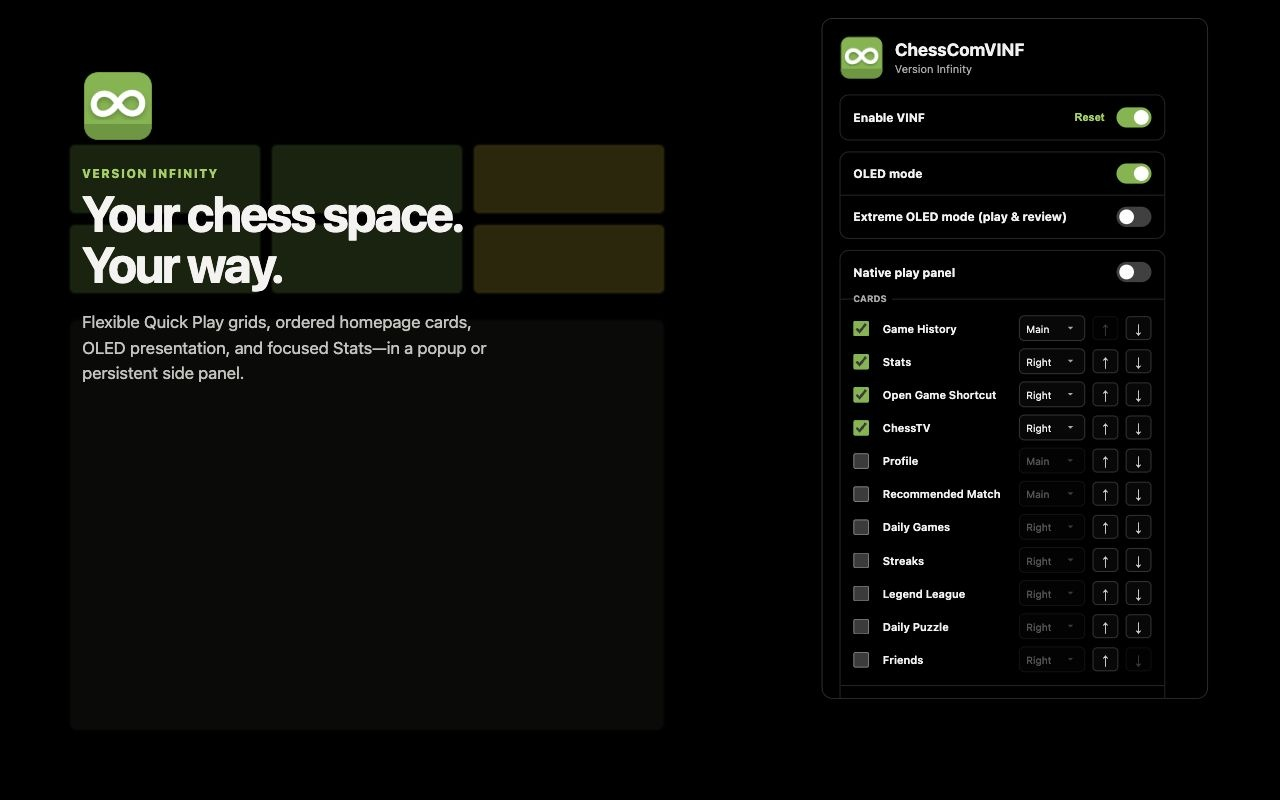
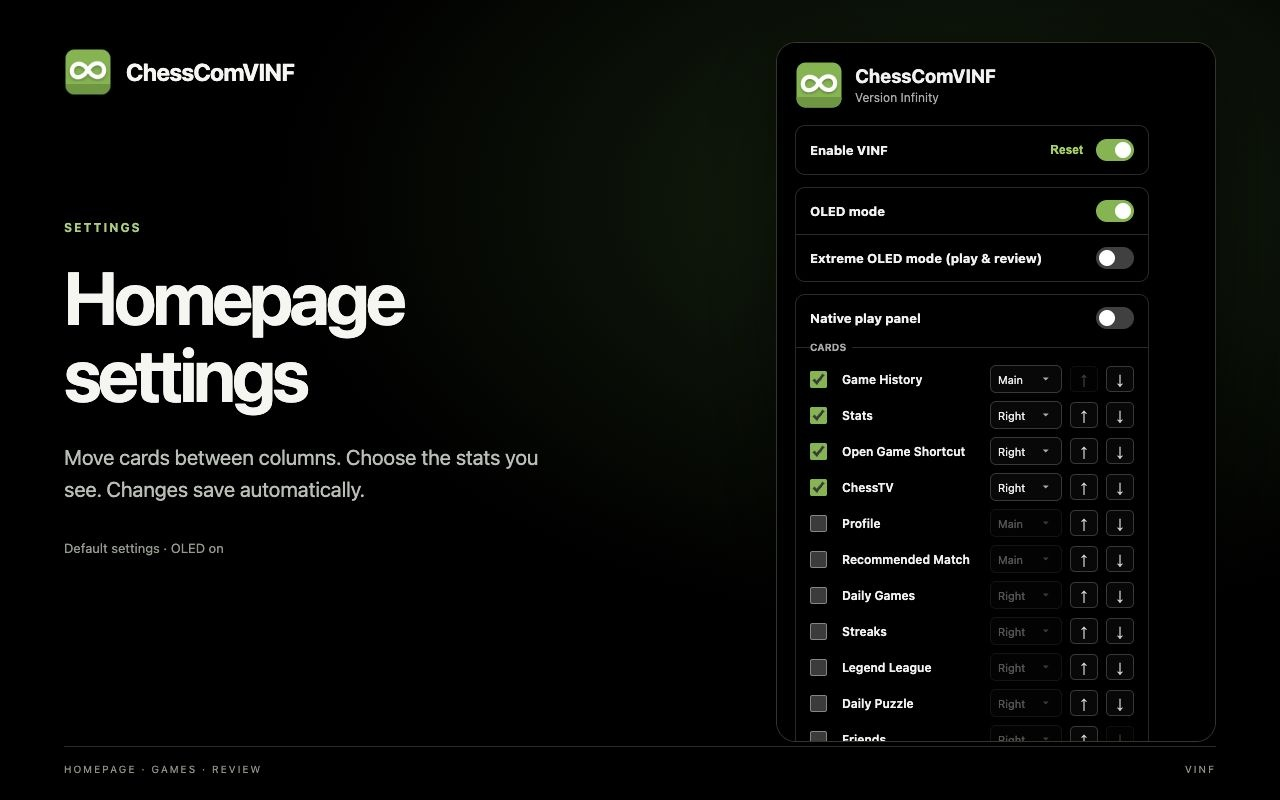
Complete Store artwork overhaul and correct default grid ordering

diff --git a/tests/visual/visual-harness.ts b/tests/visual/visual-harness.ts
@@ -37,6 +37,27 @@ const gameReviewController = new GameReviewLayoutController();
 
 const searchParams = new URL(window.location.href).searchParams;
 
+// Public Store captures use a short, legal fictional opening rather than stress-test rows.
+if (searchParams.has("store-capture") && window.location.pathname === "/phone-game") {
+  const moves = [["e4", "e5"], ["Nf3", "Nc6"], ["Bc4", "Bc5"]];
+  document.querySelectorAll(".main-line-row").forEach((row, i) => {
+    if (i >= moves.length) { row.remove(); return; }
+    row.querySelector(".white-move")!.textContent = moves[i][0];
+    row.querySelector(".black-move")!.textContent = moves[i][1];
+  });
+  for (const [from, to] of [["52","54"],["57","55"],["71","63"],["28","36"],["61","34"],["68","35"]]) {
+    const piece = document.querySelector<HTMLElement>(`.piece.square-${from}`);
+    if (piece) {
+      piece.classList.replace(`square-${from}`, `square-${to}`);
+      piece.style.left = `${(Number(to[0])-1)*12.5}%`;
+      piece.style.top = `${(8-Number(to[1]))*12.5}%`;
+    }
+  }
+  document.querySelectorAll("wc-captured-pieces").forEach(node => node.replaceChildren());
+  document.querySelector(".fixture-tail")?.remove();
+}
+
+
 if (searchParams.has("active-game")) {
   const activeGameLink = document.createElement("a");
   activeGameLink.href = "https://www.chess.com/game/live/123456";
@@ -271,7 +292,7 @@ if (window.location.pathname === "/game-review-mobile") {
 
 if (window.location.pathname === "/extreme-oled") {
   const extreme = new ExtremeOledController();
-  const settings = { ...DEFAULT_SETTINGS, extremeOled: searchParams.has("extreme"), turnDotSize: searchParams.has("large-dot") ? 24 : searchParams.has("small-dot") ? 4 : DEFAULT_SETTINGS.turnDotSize };
+  const settings = { ...DEFAULT_SETTINGS, extremeOled: searchParams.has("extreme"), turnDotSize: searchParams.has("large-dot") ? 24 : searchParams.has("small-dot") ? 4 : searchParams.has("store-capture") && window.innerWidth < 600 ? 12 : DEFAULT_SETTINGS.turnDotSize };
   const apply = () => extreme.reconcile(document,
     { protocol: "https:", hostname: "www.chess.com", pathname: "/game/123456" }, settings, searchParams.has("desktop"), searchParams.has("desktop"));
   if (searchParams.has("last-move")) {
@@ -379,7 +400,7 @@ if (["/phone-game", "/game-review-mobile"].includes(window.location.pathname)) {
   const route = { protocol: "https:", hostname: "www.chess.com",
     pathname: game ? "/game/123456" : searchParams.has("engine") ? "/analysis/game/live/123456/analysis" : "/analysis/game/live/123456/review" };
   const settings = { ...DEFAULT_SETTINGS, pokemonMode: searchParams.has("pokemon"), enabled: !searchParams.has("native"),
-    extremeOled: searchParams.has("extreme"), turnDotSize: searchParams.has("large-dot") ? 24 : searchParams.has("small-dot") ? 4 : DEFAULT_SETTINGS.turnDotSize };
+    extremeOled: searchParams.has("extreme"), turnDotSize: searchParams.has("large-dot") ? 24 : searchParams.has("small-dot") ? 4 : searchParams.has("store-capture") && window.innerWidth < 600 ? 12 : DEFAULT_SETTINGS.turnDotSize };
   const apply = () => {
     document.documentElement.toggleAttribute("data-chesscom-vinf-oled", settings.extremeOled || searchParams.has("oled"));
     if (settings.extremeOled || searchParams.has("oled")) document.documentElement.setAttribute("data-chesscom-vinf-oled", "true");

diff --git a/store-listing/source/gallery.css b/store-listing/source/gallery.css
@@ -1,0 +1,1 @@
+:root{color-scheme:dark;font-family:Inter,-apple-system,BlinkMacSystemFont,"Segoe UI",sans-serif;color:#f5f5f2;background:#000}*{box-sizing:border-box}body{margin:0}#scene{position:relative;width:1280px;height:800px;overflow:hidden;background:radial-gradient(ellipse at 75% 25%,#15230e 0,transparent 50%),#000}.brand{position:absolute;left:64px;top:48px;display:flex;align-items:center;gap:14px;font-size:24px;font-weight:700;letter-spacing:-.6px}.brand img{width:48px;height:48px}.copy{position:absolute;left:64px;top:220px;width:555px}.eyebrow{color:#a7ce7e;font-size:12px;font-weight:700;letter-spacing:2px;margin:0 0 24px}h1{font-size:74px;line-height:1.04;letter-spacing:-3.5px;white-space:pre-line;margin:0 0 28px;font-weight:650}.description{color:#b8bdb5;font-size:21px;line-height:1.55;max-width:480px;margin:0}.note{color:#92998c;font-size:13px;line-height:1.6;max-width:410px;margin-top:32px}.preview{position:absolute;right:64px;top:42px;width:440px;height:700px;border:1px solid #30392b;border-radius:20px;overflow:hidden;background:#000;box-shadow:0 20px 80px #0009}.preview iframe{display:block;border:0;width:440px;height:700px}footer{position:absolute;left:64px;right:64px;bottom:25px;border-top:1px solid #242a20;padding-top:16px;display:flex;justify-content:space-between;font-size:10px;letter-spacing:2px;color:#899181}body[data-kind=phone] .preview{width:351px;height:700px;right:102px}body[data-kind=phone] iframe{width:390px;height:778px;transform:scale(.9);transform-origin:top left}body[data-kind=small] #scene{width:440px;height:280px;background:radial-gradient(ellipse at 100% 0,#203615,transparent 70%),#000}body[data-kind=small] .brand{left:26px;top:24px;font-size:19px;gap:10px}body[data-kind=small] .brand img{width:34px;height:34px}body[data-kind=small] .copy{left:26px;top:88px;width:388px}body[data-kind=small] h1{font-size:46px;letter-spacing:-2px;line-height:1.02;margin-bottom:25px}body[data-kind=small] .description{font-size:10px;font-weight:650;letter-spacing:2px;color:#abc88e}body[data-kind=small] .eyebrow,body[data-kind=small] .note,body[data-kind=small] footer{display:none}body[data-kind=marquee] #scene{width:1400px;height:560px}body[data-kind=marquee] .brand{left:54px;top:38px;font-size:23px}body[data-kind=marquee] .brand img{width:44px;height:44px}body[data-kind=marquee] .copy{left:54px;top:144px;width:480px}body[data-kind=marquee] h1{font-size:62px;letter-spacing:-3px;margin-bottom:22px}body[data-kind=marquee] .description{font-size:17px;width:390px}body[data-kind=marquee] .note{font-size:11px;margin-top:22px}body[data-kind=marquee] .eyebrow{margin-bottom:18px;font-size:10px}body[data-kind=marquee] .preview{width:794px;height:496px;right:-24px;top:38px;transform:rotate(-2deg);border-radius:14px}body[data-kind=marquee] iframe{width:1280px;height:800px;transform:scale(.62);transform-origin:top left}body[data-kind=marquee] footer{display:none}

diff --git a/store-listing/source/gallery.html b/store-listing/source/gallery.html
@@ -1,0 +1,21 @@
+<!doctype html><html lang="en"><head><meta charset="utf-8"><meta name="viewport" content="width=device-width,initial-scale=1"><title>VINF Store gallery</title><link rel="stylesheet" href="/gallery.css"></head><body>
+<main id="scene">
+<header class="brand"><img src="/icons/icon-128.png" alt=""><span>ChessComVINF</span></header>
+<div class="copy"><p class="eyebrow" id="eyebrow"></p><h1 id="headline"></h1><p class="description" id="description"></p><p class="note" id="note"></p></div>
+<div class="preview"><iframe id="preview" title="VINF default interface"></iframe></div>
+<footer><span>HOMEPAGE · GAMES · REVIEW</span><span>VINF</span></footer>
+</main>
+<script>
+const views={
+ presets:{eyebrow:'QUICK PLAY',headline:'Quick Play\npresets',description:'Eight shortcuts on desktop and tablet. Three on phone. Choose a time control for each shortcut.',note:'Default desktop settings shown.',src:'/popup?store-capture=1&section=presets',kind:'settings'},
+ settings:{eyebrow:'SETTINGS',headline:'Homepage\nsettings',description:'Move cards between columns. Choose the stats you see. Changes save automatically.',note:'Default settings · OLED on',src:'/popup?store-capture=1',kind:'settings'},
+ play:{eyebrow:'LIVE GAMES',headline:'Live game\nlayout',description:'A clean black canvas, clear clocks and familiar controls. Adjust the turn indicator to suit you.',note:'Phone layout shown. Android: separate Firefox + Violentmonkey installation.',src:'/phone-game?oled=1&store-capture=1',kind:'phone'},
+ review:{eyebrow:'GAME REVIEW',headline:'Game\nReview',description:'Coach feedback, the evaluation graph and move controls, arranged for a smaller screen.',note:'Phone layout shown. Android: separate Firefox + Violentmonkey installation.',src:'/game-review-mobile?oled=1&store-capture=1',kind:'phone'},
+ small:{eyebrow:'',headline:'Customize\nChess.com',description:'QUICK PLAY · OLED · REVIEW',note:'',src:'',kind:'small'},
+ marquee:{eyebrow:'CHESS.COM EXTENSION',headline:'Chess.com\ncustomization',description:'Quick Play, a focused homepage and OLED game review. Available on desktop and Android.',note:'Desktop · Android via Firefox + Violentmonkey',src:'/store-showcase?view=home6',kind:'marquee'}
+};
+const v=new URL(location.href).searchParams.get('view')||'settings';const c=views[v]||views.settings;
+document.body.dataset.kind=c.kind;document.body.dataset.view=v;
+for(const k of ['eyebrow','headline','description','note'])document.getElementById(k).textContent=c[k];
+if(c.src)document.getElementById('preview').src=c.src;else document.querySelector('.preview').remove();
+</script></body></html>

diff --git a/tests/settings.test.ts b/tests/settings.test.ts
@@ -18,7 +18,7 @@ describe("settings", () => {
     expect(desktop).toMatchObject({oledMode:true, extremeOled:false, pokemonMode:false,
       turnDotSize:20,turnPulseDiameter:48,turnAnimationDuration:333,
       pokemonPieces:{p:201,n:12,b:169,r:208,q:38,k:53},
-      quickPlayPresetCount:8,timeControlIds:["10-0", "15-10", "3-0", "5-5", "10-5", "30-0", "3-2", "1-1"],
+      quickPlayPresetCount:8,timeControlIds:["10-0", "10-5", "15-10", "30-0", "3-0", "3-2", "5-5", "1-1"],
       dailyGamesPlacement:"hidden",recommendedMatchPlacement:"hidden",gameHistoryPlacement:"main"});
     expect(phone).toEqual({...desktop,quickPlayPresetCount:3,timeControlIds:["3-2","10-0","15-10"],turnDotSize:12,homepageSidebarVisible:["stats","open-game"]});
     expect(normalizeSettings(undefined,true)).toEqual(phone);

diff --git a/src/shared/settings.ts b/src/shared/settings.ts
@@ -60,7 +60,7 @@ export const DEFAULT_SETTINGS: ExtensionSettings = {
   homepageSidebarOrder: [...DEFAULT_HOMEPAGE_SIDEBAR_ORDER],
   homepageSidebarVisible: [...DEFAULT_HOMEPAGE_SIDEBAR_VISIBLE],
   quickPlayPresetCount: 8,
-  timeControlIds: ["10-0", "15-10", "3-0", "5-5", "10-5", "30-0", "3-2", "1-1"],
+  timeControlIds: ["10-0", "10-5", "15-10", "30-0", "3-0", "3-2", "5-5", "1-1"],
   statsSummaryOrder: [...DEFAULT_STATS_SUMMARY_ORDER],
   statsSummaryVisible: [...DEFAULT_STATS_SUMMARY_VISIBLE],
   statsRatingOrder: [...DEFAULT_STATS_RATING_ORDER],

diff --git a/src/shared/time-controls.ts b/src/shared/time-controls.ts
@@ -152,7 +152,7 @@ export const DEFAULT_TIME_CONTROL_IDS: readonly TimeControlId[] = [
   "5-3"
 ] as const;
 
-export const DEFAULT_EIGHT_TIME_CONTROL_IDS: readonly TimeControlId[] = ["10-0", "15-10", "3-0", "5-5", "10-5", "30-0", "3-2", "1-1"] as const;
+export const DEFAULT_EIGHT_TIME_CONTROL_IDS: readonly TimeControlId[] = ["10-0", "10-5", "15-10", "30-0", "3-0", "3-2", "5-5", "1-1"] as const;
 
 export const QUICK_PLAY_EXPANSION_FALLBACK_IDS: readonly TimeControlId[] = [
   "10-0",

diff --git a/docs/HANDOFF.md b/docs/HANDOFF.md
@@ -3,7 +3,8 @@
 This document is the durable project memory for future coding agents.
 
 Last updated: 2026-10-06.
-Current source version: 2.24.1.
+Current source version: 2.24.2.
+2.24.2: complete Store artwork correction: five images (home,presets,settings,phone play,phone review), both promo tiles replaced, plain descriptive headings, no version badges. gallery.html/css is the authoritative composed-asset source. Browser screenshot fullPage sometimes dropped text; explicit clip captures verified. Small440x280,marquee1400x560,screens1280x800; no EXIF. Store-capture query only changes local fixtures (legal opening,12px phone dot, version omission, preset scroll); production unaffected. Corrected default8 storage to column-major [10,10+5,15+10,30,3,3+2,5+5,1+1]; actual homepage DOM geometry verified top10/15+10/3/5+5, bottom10+5/30/3+2/1+1. Saved settings unchanged. Removed README defaults paragraph per user.238 tests/typecheck/builds passed. Store submission remains manual due browser policy.
 2.24.1 public release: explicit user authorization on2026-10-06 supersedes local-only restriction for this GitHub/Store update. Desktop/tablet presets8:10,15+10,3,5+5 / 10+5,30,3+2,1+1; phone3 unchanged. README simplified; Android download intended as GitHub release asset. Store screenshot harness embeds actual popup with only version badge hidden; homepage synthetic/default8 and fictional accounts. Retired obsolete screenshot02. Privacy copy now includes same-origin presence and tab-local gameID/clock maxima/display expiry. Audit current+reachable1266blobs found no secret-pattern blockers; only media/existing-remote review findings. Metadata checked (no personal EXIF); sprites only transparency. Commit email GitHub noreply; raw captures ignored.238 tests/typecheck/both builds pass (first full run userscript timeout, focused and repeat full pass). GitHub main pushed and public release v2.24.1 created at5bd9cb78dc8642c75b13a73970126ef04c827478, both ZIP/userscript assets verified against SHA256. User opened developer dashboard, but binding the Store listing returns browser-policy error “The extensions gallery cannot be scripted.” Do not bypass via another automation surface. Store upload/submission NOT completed; user must upload manually using store-listing/SUBMISSION.md and UPDATE_TLDR.md. Public assets and package checked.
 2.24.0: new-install defaults match the user-approved live settings profile. OLED on, Extreme/Pokémon/native play off; dot20px, pulse48px,333ms. Quick Play3:3+2,10min,15+10. Card order History,Stats,Open Game,ChessTV,Profile,Recommended,Daily,Streaks,League,Puzzle,Friends; History Main,Stats/OpenGame/TV Right visible; others hidden with remembered columns preserved. Stats Games only; Rapid/Blitz retracted. Default team p201/n12/b169/r208/q38/k53, pieces enabled, mode off. getDefaultSettings(phone) supplies dot12 and hidesTV under600px in content/userscript loading and Android reset; saved explicit values win. Desktop popup remains desktop defaults even though its own panel is narrow. Removed redundant Pokémon heading. Phone Go home now fit-content,min120px,centered with existing bottom location/touch height.238 tests/typecheck/both builds pass. IAB390px Review fixture measured Home124.25px centered at132.875px; popup preview confirms new defaults and v2.24.0. Preview console still reports the previously observed fixture MutationObserver/non-Node error; no new error type observed. Real Android verification remains user-controlled. Legacy regression fixtures explicitly use tests/legacy-settings.ts so old-profile behavior remains covered.
 2.23.0: all11 homepage cards now have Main/Right selectors in popup/sidepanel/Android. New homepageCardColumns partial map covers former sidebar-only stats/chess-tv/streaks/legend-league/daily-puzzle/friends; absent=sidebar, visibility remains in homepageSidebarVisible, reset clears map. Existing five placement fields preserved for backward compatibility. Layout partitions marked native cards after badge-host extraction; locator first reuses managed module markers so Main cards remain discoverable. Main widths100%; hidden cards excluded from visible ordering to avoid mutation churn. Tests cover both directions, repeated reconcile, hidden cards, native parent restoration and both editors autosaving;237 tests pass. Local IAB fixture shows Main728px/Right300px with no card overflow,11 selectors. Actual account/Firefox device checks pending.

diff --git a/store-listing/SUBMISSION.md b/store-listing/SUBMISSION.md
@@ -1,13 +1,13 @@
-# Chrome Web Store update — ChessComVINF 2.24.1
+# Chrome Web Store update — ChessComVINF 2.24.2
 
 For the dashboard checklist, use `UPDATE_TLDR.md`. Verify the currently published version in the dashboard before submission.
 
 ## Package
 
-- Upload: `../release/chesscom-vinf-2.24.1.zip`
-- Version: `2.24.1`
+- Upload: `../release/chesscom-vinf-2.24.2.zip`
+- Version: `2.24.2`
 - SHA-256:
[2 lines of base64/hex data omitted]
 
 The package contains only the Manifest V3 extension. The Android userscript,
 private fixtures, source maps, Store assets, and release documentation are not
@@ -41,12 +41,22 @@ ChessComVINF is an independent, unofficial extension and is not affiliated with 
 
 ### Graphic assets
 
-Replace the screenshot gallery with:
+Replace the screenshot gallery with all five images, in this order:
 
-- `assets/screenshot-01-focused-home.jpg` — eight default desktop/tablet presets, fictional account data.
-- `assets/screenshot-03-settings.jpg` — actual default settings UI, version badge omitted only in the capture harness.
+1. `assets/screenshot-01-focused-home.jpg` — default desktop homepage.
+2. `assets/screenshot-02-quick-play.jpg` — default eight-preset grid and stats settings.
+3. `assets/screenshot-03-settings.jpg` — default homepage and OLED settings.
+4. `assets/screenshot-04-live-game.jpg` — phone gameplay layout.
+5. `assets/screenshot-05-game-review.jpg` — phone Game Review layout.
 
-Both are 1280×800 and contain no personal metadata. Remove the obsolete eight-preset screenshot from the previous gallery. Keep the icon and promotional tiles.
+All screenshots are 1280×800, use fictional data/default settings and omit version badges. Phone images explicitly describe the separate Android Firefox + Violentmonkey installation.
+
+Replace both promotional tiles:
+
+- `assets/small-promo-440x280.jpg` (440×280)
+- `assets/marquee-promo-1400x560.jpg` (1400×560)
+
+Keep `assets/store-icon-128.png`. Public images have no personal EXIF metadata. The new gallery and promo sources are `source/gallery.html` and `source/gallery.css`; the homepage scene remains in `source/showcase.html`.
 
 ## Unchanged dashboard fields
 

diff --git a/store-listing/UPDATE_TLDR.md b/store-listing/UPDATE_TLDR.md
@@ -1,9 +1,11 @@
-# Chrome Web Store update — 2.24.1
+# Chrome Web Store update — 2.24.2
 
-- Upload `release/chesscom-vinf-2.24.1.zip`.
-- Replace the description and privacy explanations with `SUBMISSION.md`.
-- Replace screenshots with the default-profile, version-free assets listed there.
-- Mention the separate Firefox + Violentmonkey installation for Android phones and tablets.
-- Submit for review; approval timing is controlled by Google.
+1. Upload `release/chesscom-vinf-2.24.2.zip`.
+2. Replace the description and privacy explanations with `SUBMISSION.md`.
+3. Replace the screenshot gallery with all five numbered screenshots, in order.
+4. Replace both small and marquee promotional tiles. Keep the extension icon.
+5. Submit for review; Google controls approval timing.
 
-Status: GitHub release 2.24.1 is published. Chrome Web Store upload and submission are pending manual upload (browser policy prevents scripting the extensions gallery); do not describe the Store release as updated yet.
+The assets use the approved defaults, professional descriptions and no version badges. Android is described as a separate Firefox + Violentmonkey installation.
+
+Store upload remains manual: browser policy prevents scripting the extensions gallery.

diff --git a/CHANGELOG.md b/CHANGELOG.md
@@ -1,5 +1,11 @@
 # Changelog
 
+## 2.24.2 — Complete Store artwork refresh
+
+- Replace both promotional tiles and provide five version-free screenshots with descriptive headings, approved defaults and fictional data.
+- Correct eight-preset storage order for the column-filling grid so the requested top and bottom rows render correctly. Preserve saved selections and phone defaults.
+- Remove the unnecessary defaults paragraph from the README.
+
 ## 2.24.1 — Public release and device-specific presets
 
 - Default desktop/tablet Quick Play to 10, 15+10, 3, 5+5 above 10+5, 30, 3+2, 1+1. Keep the three approved phone presets. Saved selections remain unchanged.

diff --git a/README.md b/README.md
@@ -9,7 +9,6 @@ A calmer Chess.com experience for playing and reviewing games.
 - Enjoy cleaner game controls and a phone-friendly review layout.
 - Customize the turn indicator, pulse and animation speed.
 
-Settings save automatically. New installations start with OLED enabled and eight desktop/tablet shortcuts: **10, 15+10, 3, 5+5** above **10+5, 30, 3+2, 1+1**. Existing settings are preserved when updating.
 
 ## Desktop
 
